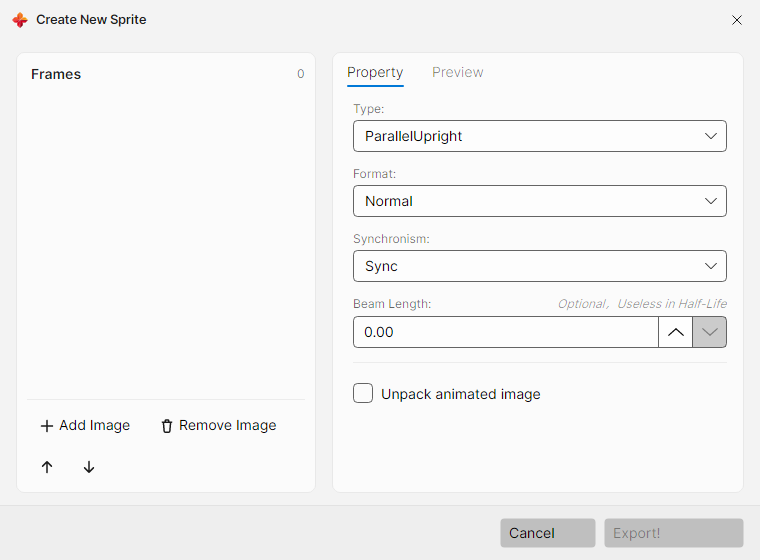
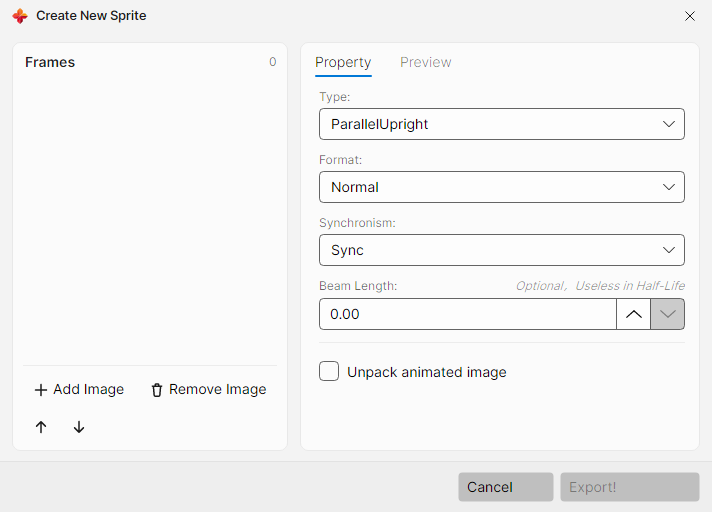
feat(ui): compact the window and collapse the command bar when narrow
The default window was 1080x720 with a 304px side panel and generous spacing
throughout, which read as oversized for a viewer that mostly shows small pixel
art. Everything steps down one notch:

- Default size 840x560 (was 1080x720), minimum 660x440 (was 820x560).
- Caption 32px tall, matching the WinUI 3 standard; command bar 38, transport
  bar 42, and the caption buttons shrink to 44x32 with them.
- Command and icon buttons drop 2-6px of height, dividers and list rows lose a
  step, and the side panel narrows to 248px with tighter section padding.
- The dialogs follow the same rhythm so the app does not mix two densities.

The command bar needed about 850px with every label spelled out, so at the new
default it would have clipped. It now drops its labels below 760px and keeps
only the icons, which is what WinUI does at this size; the tooltips stay, and
the language and about buttons became icon-only because a globe and a question
mark do not need a caption.

Also adds scripts/check-lang-keys.py, which cross-checks both language files
against LangViewModel and against every binding, since a key left behind after
a layout change is invisible until someone notices a blank label. It found
Dock_Frame and TaskBar_File_Exit unreferenced, and those are gone.

Verified by rendering every window at the default, at the minimum, and at
1280 wide, in both themes; by the 43 behaviour checks; and by publishing
NativeAOT and measuring the real window, which now reports 840x560.

diff --git a/tools/UiSnapshot/Program.cs b/tools/UiSnapshot/Program.cs
@@ -6,6 +6,7 @@ using Avalonia.Media.Imaging;
 using Avalonia.Styling;
 using Avalonia.Themes.Fluent;
 using Avalonia.Threading;
+using Avalonia.VisualTree;
 using SPRView.Net;
 using SPRView.Net.Core;
 using SPRView.Net.ViewModel;
@@ -103,6 +104,10 @@ internal static class Program
     {
         window.Width = width;
         window.Height = height;
+        // The window does this from its own SizeChanged; mirroring it here keeps
+        // the headless capture independent of when that event fires.
+        if (window.DataContext is MainWindowViewModel vm)
+            vm.ShowCommandLabels = width >= MainWindowViewModel.CommandLabelsMinWidth;
         window.Show();
         Dispatcher.UIThread.RunJobs();
         Pump();
@@ -121,6 +126,26 @@ internal static class Program
         frame.Dispose();
         window.Close();
         Console.WriteLine($"ok {file} {size.Width}x{size.Height}");
+    }
+
+    /// <summary>
+    /// Prints the measured bounds of the main regions. Used to catch a panel
+    /// that overflows its row instead of scrolling inside it.
+    /// </summary>
+    private static void DumpTree(Window window, string tag)
+    {
+        foreach (string name in new[] { "Viewport", "ViewportScroll" })
+        {
+            if (window.FindControl<Control>(name) is { } c)
+                Console.WriteLine($"  [{tag}] {name}: bounds={c.Bounds} clip={c.ClipToBounds}");
+        }
+        if (window.Content is Control root)
+        {
+            foreach (var descendant in root.GetVisualDescendants().OfType<ScrollViewer>())
+                Console.WriteLine($"  [{tag}] ScrollViewer bounds={descendant.Bounds} " +
+                                  $"extent={descendant.Extent} viewport={descendant.Viewport} " +
+                                  $"clip={descendant.ClipToBounds}");
+        }
     }
 
     /// <summary>Lets layout, bindings and render passes settle.</summary>
@@ -148,7 +173,7 @@ internal static class Program
 
         Console.WriteLine($"  diag: HasSprite={vm.HasSprite} SPR={vm.SPR?.PixelSize} " +
                           $"viewer={vm.SprViewerSize} sidebar={vm.CanShowSideBar} frames={vm.MaxFrame}");
-        Dump($"main-{suffix}.png", window, 1080, 720);
+        Dump($"main-{suffix}.png", window, 840, 560);
 
         // Third pass: transparency off, so the stored pixels show through.
         var rawWindow = new MainWindow();
@@ -161,7 +186,7 @@ internal static class Program
             rawVm.LoadSprite(sprite, Path.GetFileName(_sprPath));
             rawVm.ApplyTransparency = false;
         }
-        Dump($"main-raw-{suffix}.png", rawWindow, 1080, 720);
+        Dump($"main-raw-{suffix}.png", rawWindow, 840, 560);
 
         // Second pass: both side panels open.
         var window2 = new MainWindow();
@@ -174,7 +199,29 @@ internal static class Program
             SprDocument sprite = SprDocument.Load(stream);
             vm2.LoadSprite(sprite, Path.GetFileName(_sprPath));
         }
-        Dump($"main-panels-{suffix}.png", window2, 1080, 720);
+        Dump($"main-panels-{suffix}.png", window2, 840, 560);
+
+        // Wide pass: reports the command bar's natural width for the
+        // responsive-collapse threshold.
+        var wideWindow = new MainWindow();
+        var wideVm = new MainWindowViewModel(wideWindow) { Lang = LangLoader.Load(_lang) };
+        wideWindow.DataContext = wideVm;
+        Dump($"main-wide-{suffix}.png", wideWindow, 1280, 700);
+        DumpTree(wideWindow, "wide");
+
+        // Fourth pass: at the minimum window size.
+        var narrowWindow = new MainWindow();
+        var narrowVm = new MainWindowViewModel(narrowWindow) { Lang = LangLoader.Load(_lang) };
+        narrowWindow.DataContext = narrowVm;
+        narrowVm.ShowPalettePanel = true;
+        if (_sprPath != null && File.Exists(_sprPath))
+        {
+            using FileStream stream = File.OpenRead(_sprPath);
+            SprDocument sprite = SprDocument.Load(stream);
+            narrowVm.LoadSprite(sprite, Path.GetFileName(_sprPath));
+        }
+        Dump($"main-min-{suffix}.png", narrowWindow, 660, 440);
+        DumpTree(narrowWindow, "min");
 
         // Empty state: the storage is process wide, so clear it for this pass.
         App.Storage.NowSprite = null;
@@ -182,7 +229,7 @@ internal static class Program
         var window3 = new MainWindow();
         var vm3 = new MainWindowViewModel(window3) { Lang = LangLoader.Load(_lang) };
         window3.DataContext = vm3;
-        Dump($"main-empty-{suffix}.png", window3, 1080, 720);
+        Dump($"main-empty-{suffix}.png", window3, 840, 560);
     }
 
     private static void RenderCreateNew(string suffix)
@@ -199,14 +246,14 @@ internal static class Program
             vm.SetImages(frames);
         }
 
-        Dump($"createnew-{suffix}.png", window, 760, 560);
+        Dump($"createnew-{suffix}.png", window, 712, 512);
     }
 
     private static void RenderAbout(string suffix)
     {
         var window = new AboutWindow();
         window.DataContext = LangLoader.Load(_lang);
-        Dump($"about-{suffix}.png", window, 420, 340);
+        Dump($"about-{suffix}.png", window, 400, 300);
     }
 
     private static void RenderMessageBox(string suffix)
@@ -216,6 +263,6 @@ internal static class Program
             "   at SPRView.Net.Core.SprReader.ReadHeader(BinaryReader reader)\n" +
             "   at SPRView.Net.Core.SprDocument.Load(Stream stream)",
             "Something went wrong", "OK");
-        Dump($"messagebox-{suffix}.png", box, 420, 260);
+        Dump($"messagebox-{suffix}.png", box, 400, 240);
     }
 }

diff --git a/src/SPRView.Net/ViewModel/LangViewModel.cs b/src/SPRView.Net/ViewModel/LangViewModel.cs
@@ -26,7 +26,6 @@ public class LangViewModel : INotifyPropertyChanged
     public string TaskBar_File_SaveGIF { get => field; set { field = value; OnPropertyChanged(nameof(TaskBar_File_SaveGIF)); } } = "Save GIF";
     public string TaskBar_File_SavePalette { get => field; set { field = value; OnPropertyChanged(nameof(TaskBar_File_SavePalette)); } } = "Save Palette";
     public string TaskBar_File_Export { get => field; set { field = value; OnPropertyChanged(nameof(TaskBar_File_Export)); } } = "Export";
-    public string TaskBar_File_Exit { get => field; set { field = value; OnPropertyChanged(nameof(TaskBar_File_Exit)); } } = "Exit";
 
     public string TaskBar_View { get => field; set { field = value; OnPropertyChanged(nameof(TaskBar_View)); } } = "View";
     public string TaskBar_View_Information { get => field; set { field = value; OnPropertyChanged(nameof(TaskBar_View_Information)); } } = "Information";
@@ -37,7 +36,6 @@ public class LangViewModel : INotifyPropertyChanged
     public string TaskBar_Help { get => field; set { field = value; OnPropertyChanged(nameof(TaskBar_Help)); } } = "Help";
     public string TaskBar_Help_About { get => field; set { field = value; OnPropertyChanged(nameof(TaskBar_Help_About)); } } = "About";
 
-    public string Dock_Frame { get => field; set { field = value; OnPropertyChanged(nameof(Dock_Frame)); } } = "Frame:";
 
     public string SpriteInfo_Frames { get => field; set { field = value; OnPropertyChanged(nameof(SpriteInfo_Frames)); } } = "Frames:";
     public string SpriteInfo_Width { get => field; set { field = value; OnPropertyChanged(nameof(SpriteInfo_Width)); } } = "Width:";
@@ -57,7 +55,6 @@ public class LangViewModel : INotifyPropertyChanged
     public string Command_SaveAnim { get => field; set { field = value; OnPropertyChanged(nameof(Command_SaveAnim)); } } = "Animation";
     public string Command_Export { get => field; set { field = value; OnPropertyChanged(nameof(Command_Export)); } } = "Frames";
     public string Command_SavePalette { get => field; set { field = value; OnPropertyChanged(nameof(Command_SavePalette)); } } = "Palette";
-    public string Command_Language { get => field; set { field = value; OnPropertyChanged(nameof(Command_Language)); } } = "Language";
 
     // Transport bar
     public string Dock_PlayPause { get => field; set { field = value; OnPropertyChanged(nameof(Dock_PlayPause)); } } = "Play / Pause";

diff --git a/scripts/check-lang-keys.py b/scripts/check-lang-keys.py
@@ -1,0 +1,69 @@
+"""Reports localization keys that nothing references any more.
+
+The two language files, the view model and the XAML/code that binds them have
+to stay in step: a key left behind after a layout change is dead weight, and a
+binding without a key renders blank. Run from the repository root:
+
+    python scripts/check-lang-keys.py
+"""
+
+import glob
+import json
+import os
+import re
+import sys
+
+ROOT = os.path.dirname(os.path.dirname(os.path.abspath(__file__)))
+UI = os.path.join(ROOT, "src", "SPRView.Net")
+
+
+def read(path):
+    with open(path, encoding="utf-8") as handle:
+        return handle.read()
+
+
+def main():
+    english = json.loads(read(os.path.join(UI, "Assets", "Lang", "en.json")))
+    chinese = json.loads(read(os.path.join(UI, "Assets", "Lang", "zh.json")))
+
+    view_model = read(os.path.join(UI, "ViewModel", "LangViewModel.cs"))
+    declared = set(re.findall(r"public string (\w+)\s*[{(]", view_model))
+
+    problems = []
+
+    if set(english) != set(chinese):
+        problems.append("en.json and zh.json disagree: "
+                        f"only-en={sorted(set(english) - set(chinese))} "
+                        f"only-zh={sorted(set(chinese) - set(english))}")
+    if set(english) != declared:
+        problems.append("JSON and LangViewModel disagree: "
+                        f"only-json={sorted(set(english) - declared)} "
+                        f"only-vm={sorted(declared - set(english))}")
+
+    # Everything outside the language files and the view model definition.
+    referenced = []
+    for pattern in ("**/*.axaml", "**/*.cs"):
+        for path in glob.glob(os.path.join(UI, pattern), recursive=True):
+            parts = path.replace(os.sep, "/").split("/")
+            if "obj" in parts or "bin" in parts:
+                continue
+            if os.path.basename(path) == "LangViewModel.cs":
+                continue
+            referenced.append(read(path))
+    blob = "\n".join(referenced)
+
+    unused = sorted(key for key in english if key not in blob)
+    if unused:
+        problems.append(f"keys nothing references: {unused}")
+
+    if problems:
+        for line in problems:
+            print(line)
+        return 1
+
+    print(f"localization keys ok ({len(english)} keys)")
+    return 0
+
+
+if __name__ == "__main__":
+    sys.exit(main())

diff --git a/src/SPRView.Net/Window/MainWindow.axaml.cs b/src/SPRView.Net/Window/MainWindow.axaml.cs
@@ -23,6 +23,7 @@ public partial class MainWindow : Window
         AddHandler(DragDrop.DropEvent, OnDrop);
 
         ViewportScroll.SizeChanged += (_, e) => Vm?.OnViewportSizeChanged(e.NewSize);
+        SizeChanged += (_, e) => UpdateCommandBar(e.NewSize.Width);
         // The first layout pass can finish before the canvas reports a size,
         // so the fit is recomputed once the window is on screen.
         Opened += (_, _) => Vm?.OnViewportSizeChanged(ViewportScroll.Bounds.Size);
@@ -35,6 +36,13 @@ public partial class MainWindow : Window
     }
 
     private MainWindowViewModel? Vm => DataContext as MainWindowViewModel;
+
+    /// <summary>Collapses the command bar to icons when the window is narrow.</summary>
+    private void UpdateCommandBar(double width)
+    {
+        if (Vm is { } vm)
+            vm.ShowCommandLabels = width >= MainWindowViewModel.CommandLabelsMinWidth;
+    }
 
     /// <summary>Exposed so the layout tests can assert the drag feedback.</summary>
     public bool DropHintVisible => DropHint.IsVisible;

diff --git a/src/SPRView.Net/ViewModel/MainWindow/MainWindowViewModel.cs b/src/SPRView.Net/ViewModel/MainWindow/MainWindowViewModel.cs
@@ -158,6 +158,30 @@ public partial class MainWindowViewModel : INotifyPropertyChanged
         return new Bitmap(memoryStream);
     }
 
+    private bool m_bShowCommandLabels = true;
+
+    /// <summary>
+    /// Whether the command bar spells out its labels.
+    ///
+    /// The window is meant to be usable when narrow, so below the width the
+    /// labelled bar needs the buttons collapse to their icons, as they do in
+    /// WinUI. The tooltips stay either way.
+    /// </summary>
+    public bool ShowCommandLabels
+    {
+        get => m_bShowCommandLabels;
+        set
+        {
+            if (m_bShowCommandLabels == value)
+                return;
+            m_bShowCommandLabels = value;
+            OnPropertyChanged(nameof(ShowCommandLabels));
+        }
+    }
+
+    /// <summary>Width under which the command bar drops its labels, in DIPs.</summary>
+    public const double CommandLabelsMinWidth = 760;
+
     private bool m_bApplyTransparency = true;
 
     /// <summary>
